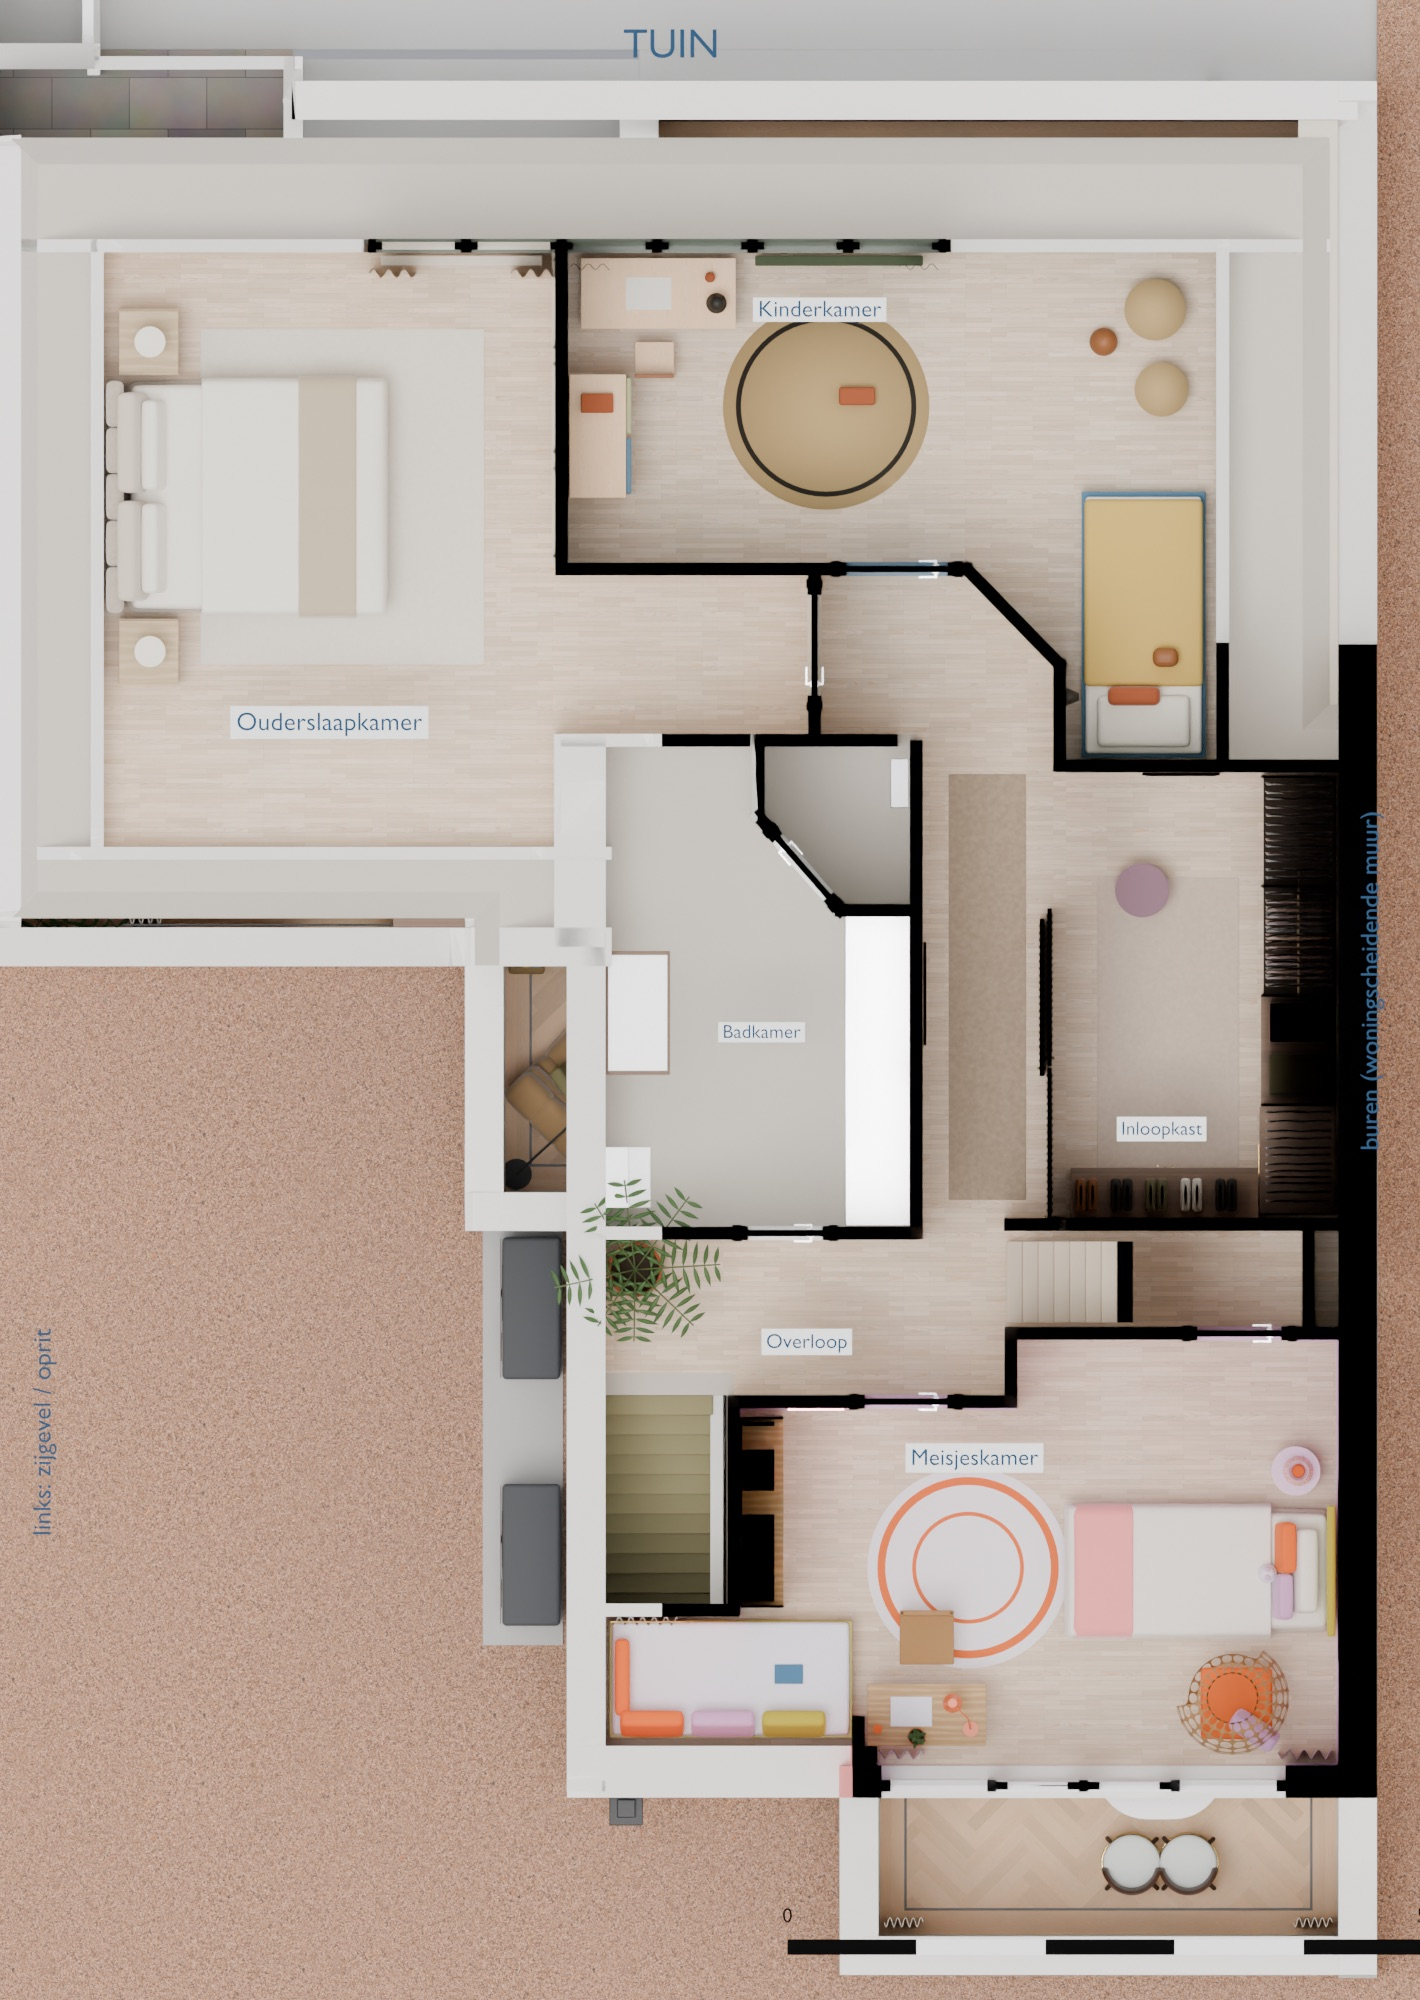
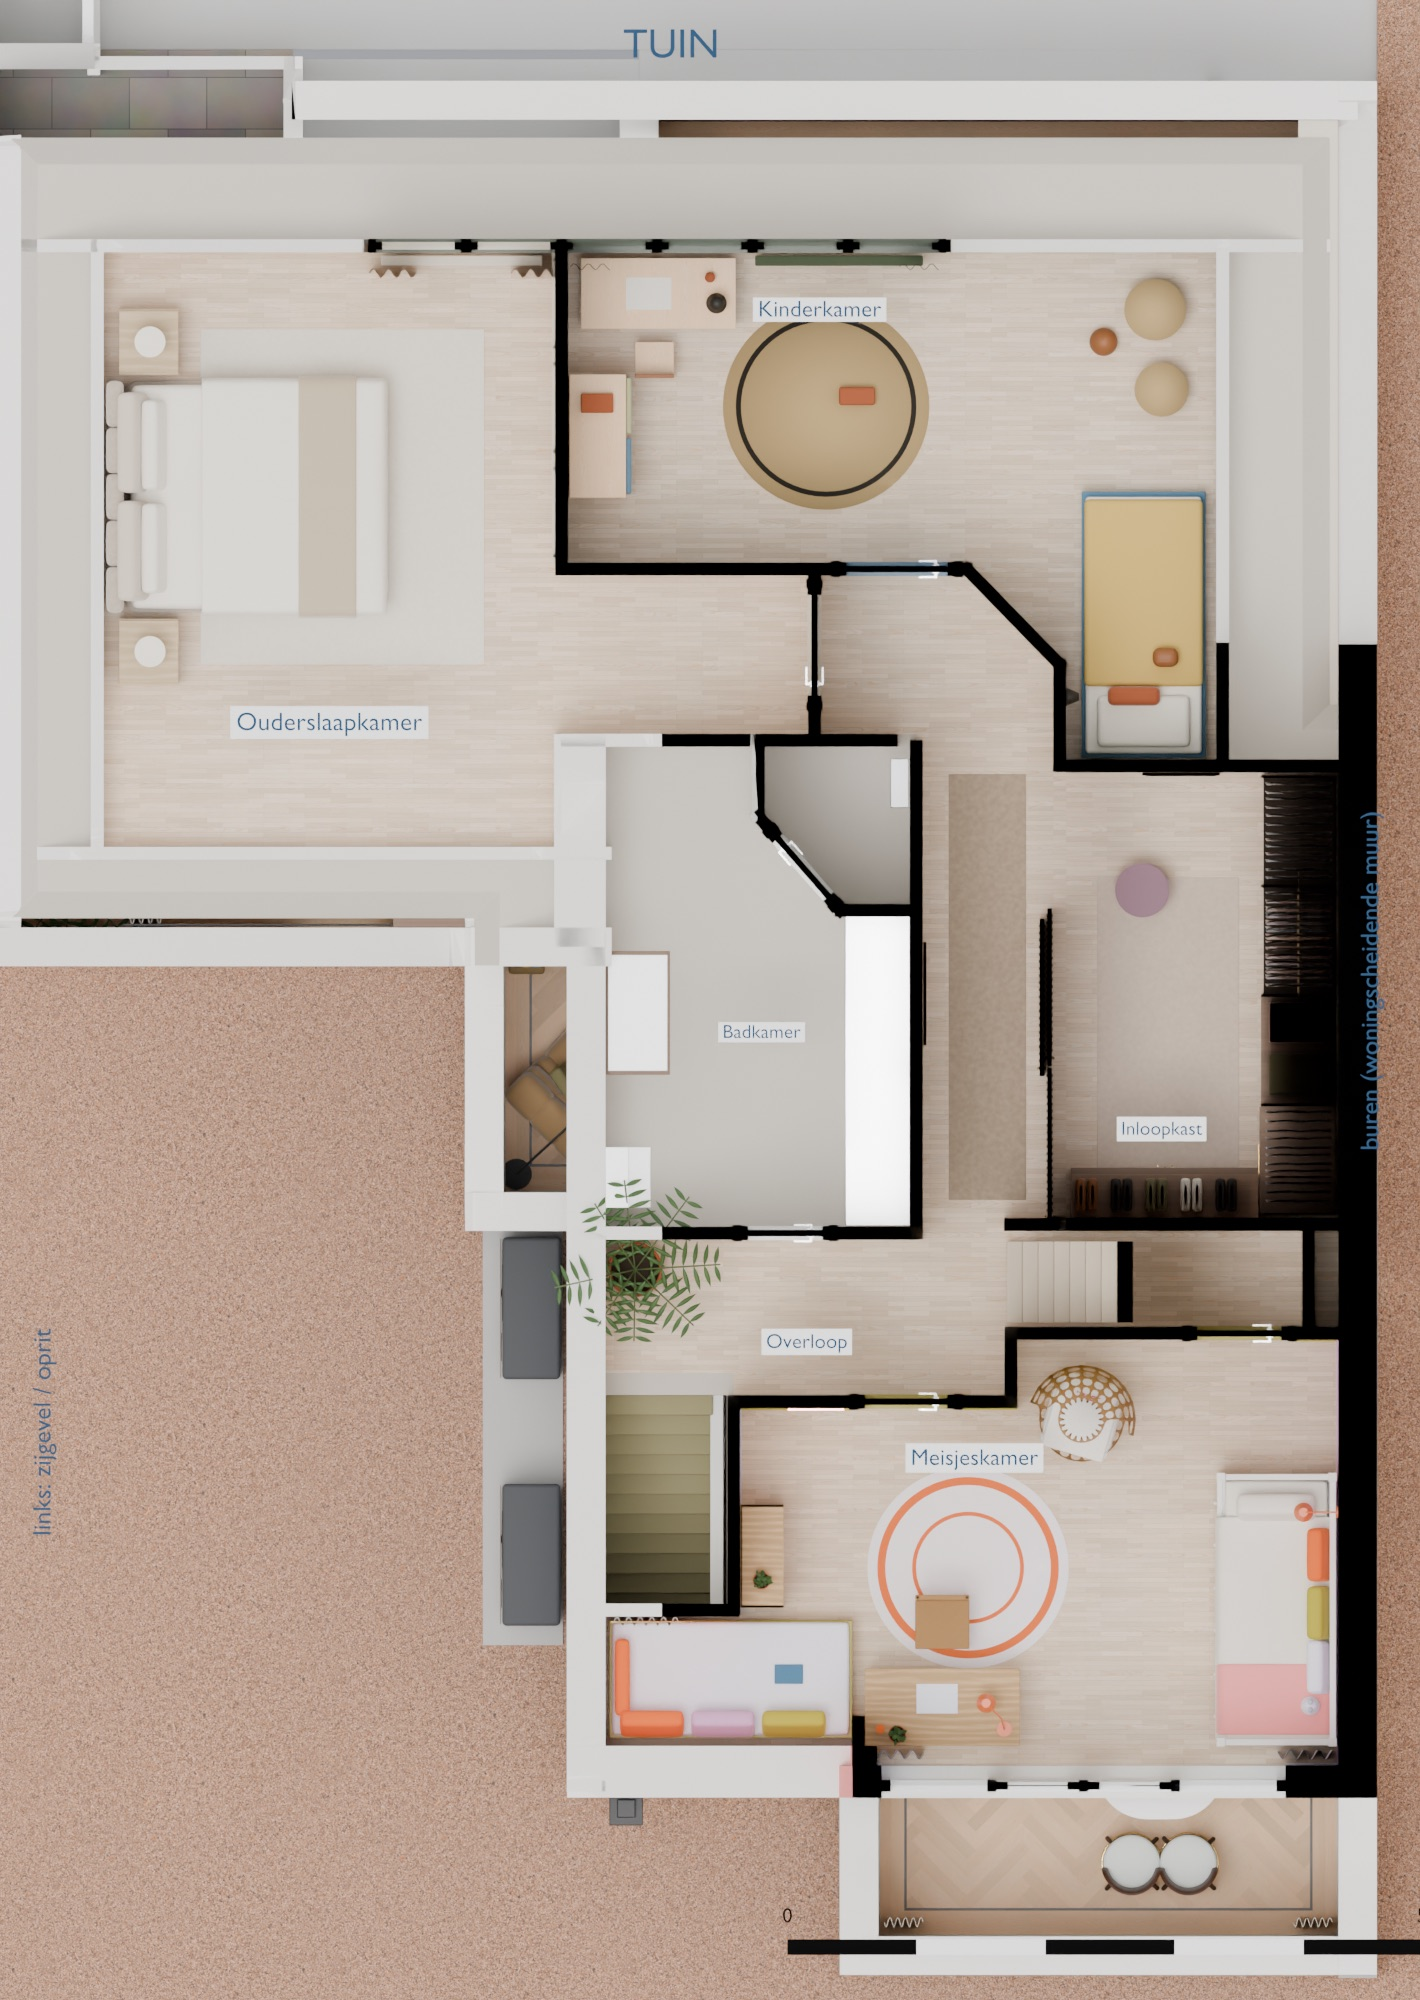
Meisjeskamer: Hemnes bedbank, hangstoel bij de deur, hele wanden Lilac/Olive/Baby Blue, kleinere boekenkast, groter bureau (dag)

diff --git a/uitleg.html b/uitleg.html
@@ -204,7 +204,7 @@
 
   <article class="ruimte">
     <div class="beelden">
-      <img src="img/sfeer/35-meisjeskamer.jpg" alt="Meisjeskamer: bed met olijfgroen hoofdbord voor een flamingo boog, rotan hangstoel bij de balkondeuren en bureau" loading="lazy">
+      <img src="img/sfeer/35-meisjeskamer.jpg" alt="Meisjeskamer: witte Hemnes bedbank tegen de buurmuur, rotan hangstoel en bureau bij de balkondeuren" loading="lazy">
       <div class="rij">
         <img src="img/sfeer/36-meisjeskamer-leeshoek.jpg" alt="Leeshoek onder de schuinte met kussens en lichtsnoer, boekenkast en bureau" loading="lazy">
         <img src="img/sfeer/40-meisjeskamer-avond.jpg" alt="Meisjeskamer 's avonds met gordijnen dicht en het lichtsnoer aan" loading="lazy">
@@ -212,8 +212,8 @@
     </div>
     <div>
       <h3>Meisjeskamer: haar eigen kleuren</h3>
-      <p>De kleuren komen uit haar eigen palet: Lilac, Baby Blue, Flamingo, Poppy en Olive. Boven is de wand Baby Blue, tot 1,10 m hoogte loopt een vlak in Lilac, met de plint en de deur mee in die kleur. Het bed van 90 × 200 staat met het hoofdeind tegen de dichte buurmuur, met een olijfgroen gestoffeerd hoofdbord voor een geschilderde boog in Flamingo. Het beddengoed is wit met een flamingo plaid, en de kussens zijn Poppy en lila. De kamer blijft licht, met de kleur in vlakken.</p>
-      <p>Bij het vaste glas rechts van de balkondeuren hangt een rotan hangstoel met een Poppy-kussen. Tussen de boekenkast en de deur hangt een boogvormige spiegel met een flamingo neonlijn. De lage hoek onder de schuinte naast de trap wordt een leeshoek: een olijfgroen podium met lades, kussens, een voile ervoor en de schuinte in Flamingo met een lichtsnoer. Langs de trapwand staat een open boekenkast, en voor het vaste glas links een bureau met een Poppy-lampje. Achter de tweede deur zit de bestaande inbouwkast.</p>
+      <p>De kleuren komen uit haar eigen palet: Lilac, Baby Blue, Flamingo, Poppy en Olive. De wanden zijn in hun geheel geverfd. De wand achter de bedbank is Lilac. De deurwand met de hangstoel is Olive, met de deuren en plinten mee in die kleur. De overige wanden zijn Baby Blue. Zo is de kamer stoerder en minder roze. Het verfwerk is bewust rustig, zonder geschilderde vormen. Het bed is een witte IKEA Hemnes bedbank met drie lades, ingeschoven en met de lange kant tegen de dichte buurmuur. Er liggen wit beddengoed, een flamingo plaid en kussens in Poppy en lila op, en erboven hangt een Poppy wandlampje. De gordijnen zijn linnen in Baby Blue. De kamer blijft licht.</p>
+      <p>Tussen de kamerdeur en de inbouwkast hangt een rotan hangstoel aan een zwarte ketting, met een lichtgrijs kussen met roze tekst en een witte schapenvacht. Tussen de boekenkast en de deur hangt een boogvormige spiegel met een flamingo neonlijn. De lage hoek onder de schuinte naast de trap wordt een leeshoek: een olijfgroen podium met lades, kussens, een voile ervoor en de nis en schuinte in Flamingo met een lichtsnoer. Langs de trapwand staat een lage open boekenkast, en voor het vaste glas links een bureau van 120 × 60 met een Poppy-lampje. Achter de tweede deur zit de bestaande inbouwkast.</p>
       <p>De kleurnamen en hexcodes komen uit haar palet en zijn geen LAB-kleuren. Bij LAB kun je er de dichtstbijzijnde verf bij laten zoeken.</p>
       <div class="tags"><span class="tag"><i style="background:#CBCADC"></i>Baby Blue</span><span class="tag"><i style="background:#D9ADD1"></i>Lilac</span><span class="tag"><i style="background:#F69593"></i>Flamingo</span><span class="tag"><i style="background:#E26728"></i>Poppy</span><span class="tag"><i style="background:#AEA434"></i>Olive</span></div>
     </div>
@@ -316,10 +316,10 @@
       <tr><td>Slaapkamer</td><td>Bed 160 × 200 met gestoffeerd hoofdbord</td><td>Hoofdbord in mosgroen velours over de volle breedte; linnen beddengoed, roestkleurige plaid</td></tr>
       <tr><td>Slaapkamer</td><td>Walnoten kast in de nis</td><td>Vloer tot plafond, messing grepen; zelfde walnoot als keuken en speelkamer</td></tr>
       <tr><td>Slaapkamer</td><td>Nachtkastjes, bureautje, Akari-hanglamp</td><td>Walnoot; keramische lampjes met linnen kap</td></tr>
-      <tr><td>Meisjeskamer</td><td>Bed 90 × 200, olijf hoofdbord</td><td>Hoofdeind tegen de buurmuur, voor een geschilderde boog in Flamingo</td></tr>
-      <tr><td>Meisjeskamer</td><td>Rotan hangstoel, neon spiegel</td><td>Hangstoel bij het vaste glas rechts van de balkondeuren; boogspiegel met flamingo neonlijn naast de deur</td></tr>
+      <tr><td>Meisjeskamer</td><td>IKEA Hemnes bedbank met 3 lades, wit</td><td>Ingeschoven, lange kant tegen de buurmuur; wandlampje erboven</td></tr>
+      <tr><td>Meisjeskamer</td><td>Rotan hangstoel, neon spiegel</td><td>Hangstoel aan een ketting tussen de kamerdeur en de inbouwkast; boogspiegel met flamingo neonlijn naast de deur</td></tr>
       <tr><td>Meisjeskamer</td><td>Leeshoek met podium en lades</td><td>Onder de schuinte naast de trap; matras, kussens, voile, lichtsnoer</td></tr>
-      <tr><td>Meisjeskamer</td><td>Bureau eiken + rotan stoel, open boekenkast</td><td>Bureau voor het vaste glas bij de balkondeuren; boekenkast langs de trapwand</td></tr>
+      <tr><td>Meisjeskamer</td><td>Bureau eiken + rotan stoel, open boekenkast</td><td>Bureau 120 × 60 voor het vaste glas bij de balkondeuren; lage boekenkast (80 × 110) langs de trapwand</td></tr>
       <tr><td>Inloopkast</td><td>Open walnoten kastwand, 60 cm diep</td><td>Hangen, planken, lades; led onder de bovenplank; schoenenwand achterin; walnoten schuifdeur naar de gang</td></tr>
       <tr><td>Hele BG</td><td>Linnen wavegordijnen, naturel</td><td>Bijv. GAMMA Marleen 4341 linnen, op maat en gevoerd; vouw- en rolgordijnen in dezelfde stof</td></tr>
     </tbody>

diff --git a/index.html b/index.html
@@ -163,7 +163,7 @@ const LINKS = {
 };
 const VOLGORDE = ['woonkamer', 'vleugel', 'eetzone', 'keuken', 'erker', 'eiland', 'speelkamer', 'hal', 'slaapkamer', 'slaapkamerbed', 'badkamer',
                   'overloop', 'gang', 'portaal', 'ouders', 'oudersraam', 'kinderkamer', 'kinderbedstede', 'meisjeskamer', 'meisjesleeshoek', 'inloopkast'];
-const HEEFT_FOTO = new Set(['badkamer-avond', 'badkamer', 'eetzone-avond', 'eetzone', 'eiland-avond', 'eiland', 'erker-avond', 'erker', 'gang-avond', 'gang', 'hal-avond', 'hal', 'inloopkast-avond', 'inloopkast', 'keuken-avond', 'keuken', 'kinderbedstede-avond', 'kinderbedstede', 'kinderkamer-avond', 'kinderkamer', 'meisjeskamer-avond', 'meisjeskamer', 'meisjesleeshoek-avond', 'meisjesleeshoek', 'ouders-avond', 'ouders', 'oudersraam-avond', 'oudersraam', 'overloop-avond', 'overloop', 'portaal-avond', 'portaal', 'slaapkamer-avond', 'slaapkamer', 'slaapkamerbed-avond', 'slaapkamerbed', 'speelkamer-avond', 'speelkamer', 'vleugel-avond', 'vleugel', 'woonkamer-avond', 'woonkamer']);   // AI-versies die er zijn
+const HEEFT_FOTO = new Set(['badkamer-avond', 'badkamer', 'eetzone-avond', 'eetzone', 'eiland-avond', 'eiland', 'erker-avond', 'erker', 'gang-avond', 'gang', 'hal-avond', 'hal', 'inloopkast-avond', 'inloopkast', 'keuken-avond', 'keuken', 'kinderbedstede-avond', 'kinderbedstede', 'kinderkamer-avond', 'kinderkamer', 'ouders-avond', 'ouders', 'oudersraam-avond', 'oudersraam', 'overloop-avond', 'overloop', 'portaal-avond', 'portaal', 'slaapkamer-avond', 'slaapkamer', 'slaapkamerbed-avond', 'slaapkamerbed', 'speelkamer-avond', 'speelkamer', 'vleugel-avond', 'vleugel', 'woonkamer-avond', 'woonkamer']);   // AI-versies die er zijn
 const HEEFT_PANO = new Set(['badkamer-avond', 'badkamer', 'eetzone-avond', 'eetzone', 'eiland-avond', 'eiland', 'erker-avond', 'erker', 'gang-avond', 'gang', 'hal-avond', 'hal', 'inloopkast-avond', 'inloopkast', 'keuken-avond', 'keuken', 'kinderbedstede-avond', 'kinderbedstede', 'kinderkamer-avond', 'kinderkamer', 'meisjeskamer-avond', 'meisjeskamer', 'meisjesleeshoek-avond', 'meisjesleeshoek', 'ouders-avond', 'ouders', 'oudersraam-avond', 'oudersraam', 'overloop-avond', 'overloop', 'portaal-avond', 'portaal', 'slaapkamer-avond', 'slaapkamer', 'slaapkamerbed-avond', 'slaapkamerbed', 'speelkamer-avond', 'speelkamer', 'vleugel-avond', 'vleugel', 'woonkamer-avond', 'woonkamer']);   // 3D-renders die er zijn (publiceer_site.sh); standplaatsen zonder render vallen weg
 for (const id of Object.keys(SPOTS)) if (!HEEFT_PANO.has(id)) { delete SPOTS[id]; delete LINKS[id]; }
 VOLGORDE.splice(0, VOLGORDE.length, ...VOLGORDE.filter(id => SPOTS[id]));
